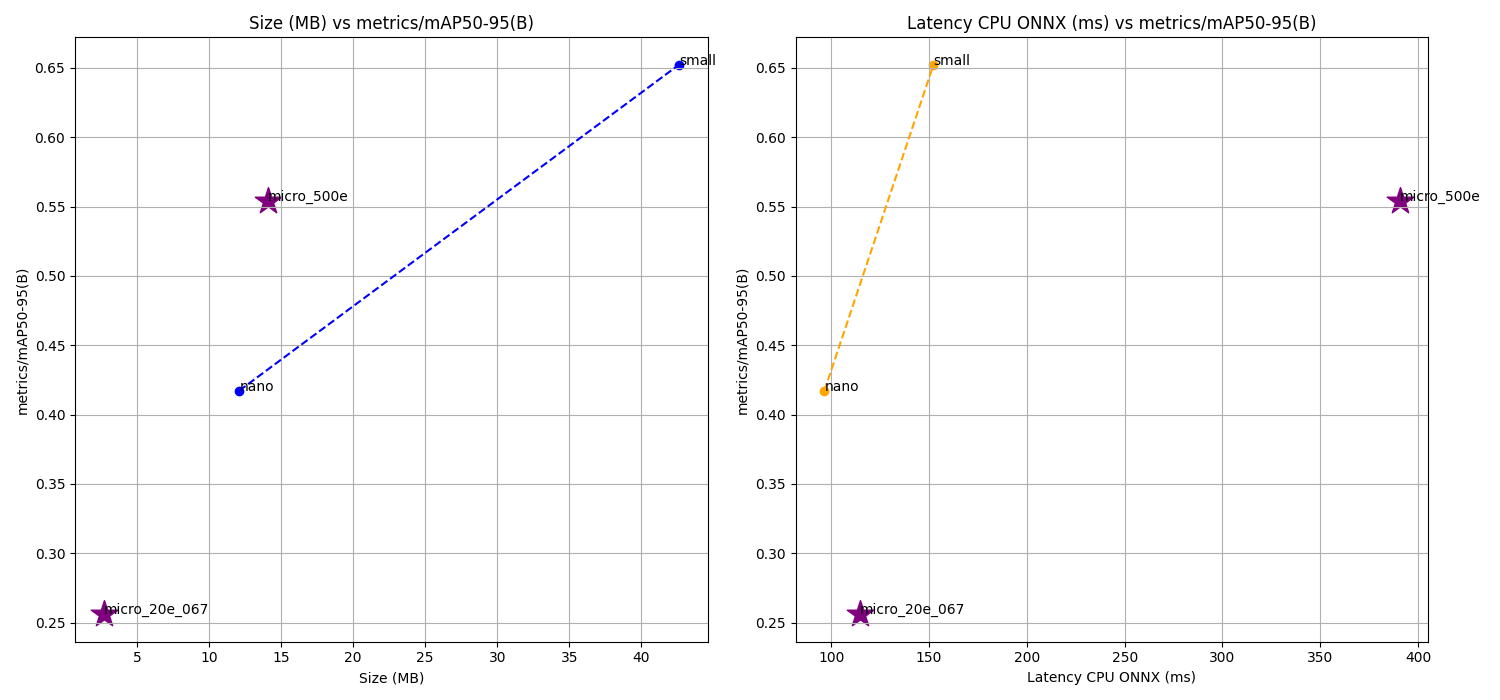
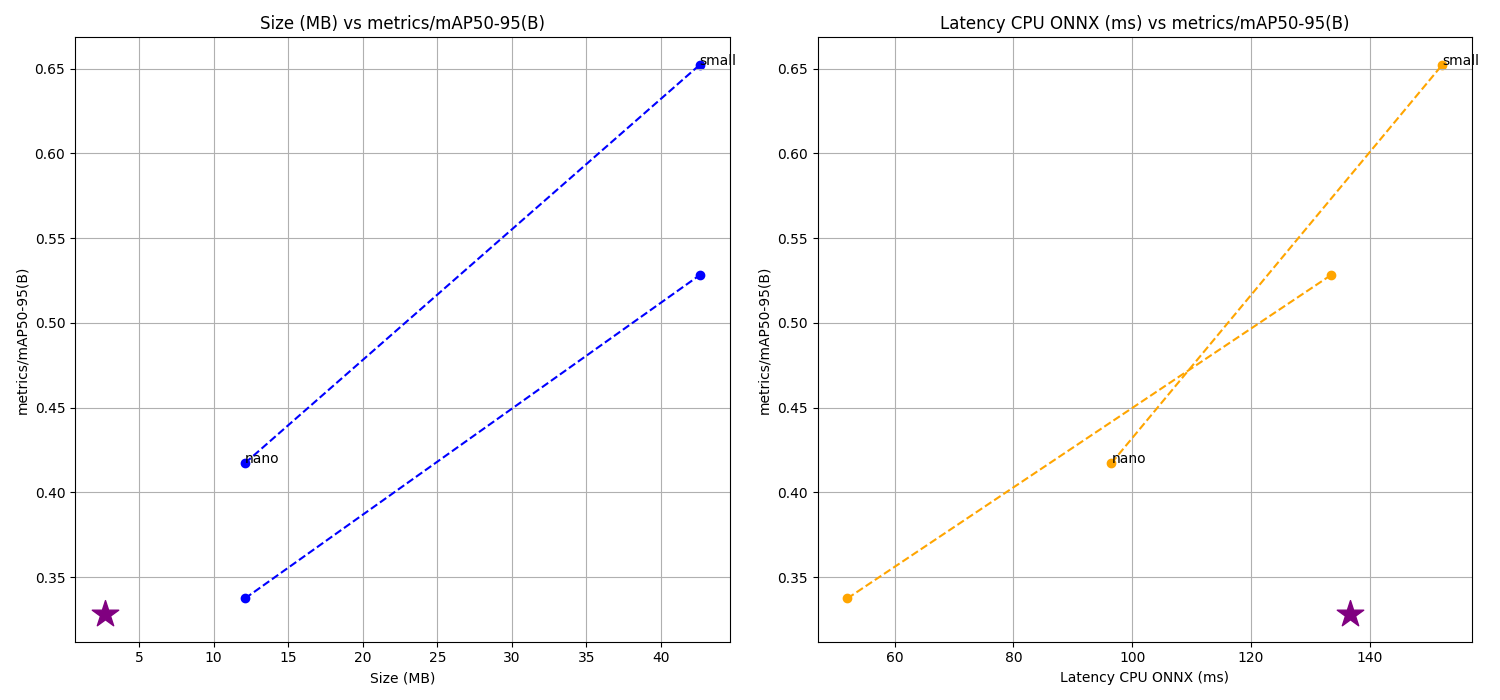
new graph plotter restored and formatted

diff --git a/recipes/detection/benchmark/plots/plot_graph.py b/recipes/detection/benchmark/plots/plot_graph.py
@@ -34,12 +34,12 @@ def can_be_float(x):
         return False
 
 
-def read_data():
+def read_data(folder):
     data = []
     # read files in the dir /data
-    for file in os.listdir("data"):
+    for file in os.listdir(folder):
         if file.endswith(".log"):
-            column_names, data_line = parse_text_file(os.path.join("data", file))
+            column_names, data_line = parse_text_file(os.path.join(folder, file))
             model = file.replace("benchmarks_", "").replace(".log", "")
             data_line.insert(1, model)
             data.append(data_line)
@@ -60,13 +60,18 @@ def read_data():
     return parsed_data
 
 
-def plot_data(data):
+def plot_data(pre, trained, micro):
 
-    idx_divide = 2
     star_size = 400
 
-    df = pd.DataFrame(data)
-    print(df)
+    predf = pd.DataFrame(pre)
+    print(predf)
+
+    traindf = pd.DataFrame(trained)
+    print(traindf)
+
+    microdf = pd.DataFrame(micro)
+    print(microdf)
 
     fig, axs = plt.subplots(1, 2, figsize=(15, 7))
 
@@ -76,27 +81,40 @@ def plot_data(data):
 
     # Plot Size (MB) vs metrics/mAP50-95(B)
     axs[0].scatter(
-        df["Size (MB)"][idx_divide:],
-        df["metrics/mAP50-95(B)"][idx_divide:],
+        predf["Size (MB)"],
+        predf["metrics/mAP50-95(B)"],
         color="blue",
     )
-    axs[0].scatter(
-        df["Size (MB)"][:idx_divide],
-        df["metrics/mAP50-95(B)"][:idx_divide],
-        color="purple",
-        marker="*",
-        s=star_size,
-    )
     axs[0].plot(
-        df["Size (MB)"][idx_divide:],
-        df["metrics/mAP50-95(B)"][idx_divide:],
+        predf["Size (MB)"],
+        predf["metrics/mAP50-95(B)"],
         color="blue",
         linestyle="dashed",
     )
 
+    axs[0].scatter(
+        traindf["Size (MB)"],
+        traindf["metrics/mAP50-95(B)"],
+        color="blue",
+    )
+    axs[0].plot(
+        traindf["Size (MB)"],
+        traindf["metrics/mAP50-95(B)"],
+        color="blue",
+        linestyle="dashed",
+    )
+
+    axs[0].scatter(
+        microdf["Size (MB)"],
+        microdf["metrics/mAP50-95(B)"],
+        color="purple",
+        marker="*",
+        s=star_size,
+    )
+
     # Annotate points with the model name
-    for i, model in enumerate(df["Model"]):
-        axs[0].annotate(model, (df["Size (MB)"][i], df["metrics/mAP50-95(B)"][i]))
+    for i, model in enumerate(predf["Model"]):
+        axs[0].annotate(model, (predf["Size (MB)"][i], predf["metrics/mAP50-95(B)"][i]))
 
     axs[0].set_title("Size (MB) vs metrics/mAP50-95(B)")
     axs[0].set_xlabel("Size (MB)")
@@ -104,28 +122,42 @@ def plot_data(data):
 
     # Plot Inference time (ms/im) vs metrics/mAP50-95(B)
     axs[1].scatter(
-        df["Inference time (ms/im)"][idx_divide:],
-        df["metrics/mAP50-95(B)"][idx_divide:],
+        predf["Inference time (ms/im)"],
+        predf["metrics/mAP50-95(B)"],
         color="orange",
     )
-    axs[1].scatter(
-        df["Inference time (ms/im)"][:idx_divide],
-        df["metrics/mAP50-95(B)"][:idx_divide],
-        color="purple",
-        marker="*",
-        s=star_size,
-    )
     axs[1].plot(
-        df["Inference time (ms/im)"][idx_divide:],
-        df["metrics/mAP50-95(B)"][idx_divide:],
+        predf["Inference time (ms/im)"],
+        predf["metrics/mAP50-95(B)"],
         color="orange",
         linestyle="dashed",
     )
 
+    # Plot Inference time (ms/im) vs metrics/mAP50-95(B)
+    axs[1].scatter(
+        traindf["Inference time (ms/im)"],
+        traindf["metrics/mAP50-95(B)"],
+        color="orange",
+    )
+    axs[1].plot(
+        traindf["Inference time (ms/im)"],
+        traindf["metrics/mAP50-95(B)"],
+        color="orange",
+        linestyle="dashed",
+    )
+
+    axs[1].scatter(
+        microdf["Inference time (ms/im)"],
+        microdf["metrics/mAP50-95(B)"],
+        color="purple",
+        marker="*",
+        s=star_size,
+    )
+
     # Annotate points with the model name
-    for i, model in enumerate(df["Model"]):
+    for i, model in enumerate(predf["Model"]):
         axs[1].annotate(
-            model, (df["Inference time (ms/im)"][i], df["metrics/mAP50-95(B)"][i])
+            model, (predf["Inference time (ms/im)"][i], predf["metrics/mAP50-95(B)"][i])
         )
 
     axs[1].set_title("Latency CPU ONNX (ms) vs metrics/mAP50-95(B)")
@@ -137,5 +169,9 @@ def plot_data(data):
     plt.show()
 
 
-r = read_data()
-plot_data(r)
+if __name__ == "__main__":
+    pre = read_data("./data/pre-trained/")
+    trained = read_data("./data/trained/")
+    yolo_micro = read_data("./data/yolo_micro/")
+
+    plot_data(pre, trained, yolo_micro)
